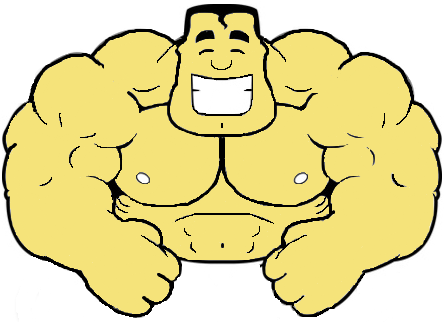
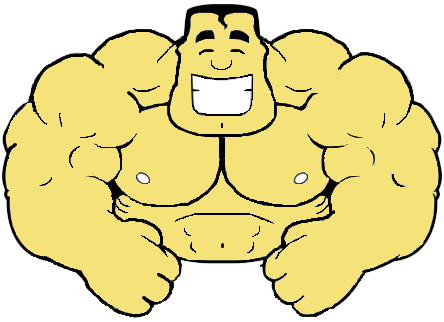
added sidebar features and new transparent buff Daddy image

diff --git a/app.js b/app.js
@@ -52,10 +52,20 @@
 
             });
         })
-        .controller('AppCtrl', function AppCtrl($scope, $location) {
+        .controller('AppCtrl', function AppCtrl($scope, $location, auth, store) {
+            $scope.auth = auth;
+
             $scope.sideBar = function() {
                 $("#wrapper").toggleClass("toggled");
             };
+
+            $scope.logout = function() {
+                auth.signout();
+                store.remove('profile');
+                store.remove('token');
+                $location.path('/login');
+                $("#wrapper").toggleClass("toggled");
+            }
 
             $scope.$on('$routeChangeSuccess', function(e, nextRoute) {
                 if (nextRoute.$$route && angular.isDefined(nextRoute.$$route.pageTitle)) {

diff --git a/sidebar/sidebar.html b/sidebar/sidebar.html
@@ -3,8 +3,8 @@
     <ul class="sidebar-nav">
         <li class="sidebar-brand">
             <a href="#">
-                        Buff Daddy
-                    </a>
+                <img src="../BuffDaddy/images/BuffDaddy.png" style="width:40px" /> Buff Daddy
+            </a>
         </li>
         <li>
             <a href="#">Dashboard</a>
@@ -25,7 +25,8 @@
             <a href="#">Services</a>
         </li>
         <li>
-            <a href="#">Contact</a>
+            <img style="width:31px" src="{{auth.profile.picture}}" />
+            <button class="btn-sm btn-warning" ng-click="logout()">Logout {{auth.profile.name}}</button>
         </li>
     </ul>
 </div>

diff --git a/login/login.html b/login/login.html
@@ -3,12 +3,14 @@
 <div class="jumbotron" style="background-color:#2F2868; color:white; vertical-align:middle">
     <br/>
     <center>
-        <img align="center" src="../BuffDaddy/images/BuffDaddy-Blue.png" alt="some_text" style="position:relative; top:5px;" />
+        <img align="center" src="../BuffDaddy/images/BuffDaddy.png" style="position:relative; width: 100%; top:5px;" />
     </center>
     <h1>Welcome To BuffDaddy</h1>
     <p align="center">Please login to start your Journey!</p>
     <a align="center" ng-click="login()" class="btn btn-primary btn-sm btn-block">SignIn</a>
     </p>
+    <br/>
+    <br/>
 </div>
 <!-- </div>-->
 <!-- </div> -->

diff --git a/index.html b/index.html
@@ -30,13 +30,8 @@
     <script type="text/javascript" src="app.js"></script>
     <script type="text/javascript" src="home/home.js"></script>
     <script type="text/javascript" src="login/login.js"></script>
-    <!-- Bootstrap Core CSS -->
-    <!-- <link href="/BuffDaddy/css/bootstrap.min.css" rel="stylesheet"> -->
-    <!-- Custom CSS -->
     <link href="/BuffDaddy/css/simple-sidebar.css" rel="stylesheet">
-    <!-- Bootstrap Core JavaScript -->
     <script src="/BuffDaddy/sidebar/js/bootstrap.min.js"></script>
-    <!-- Menu Toggle Script -->
 </head>
 
 <body>
